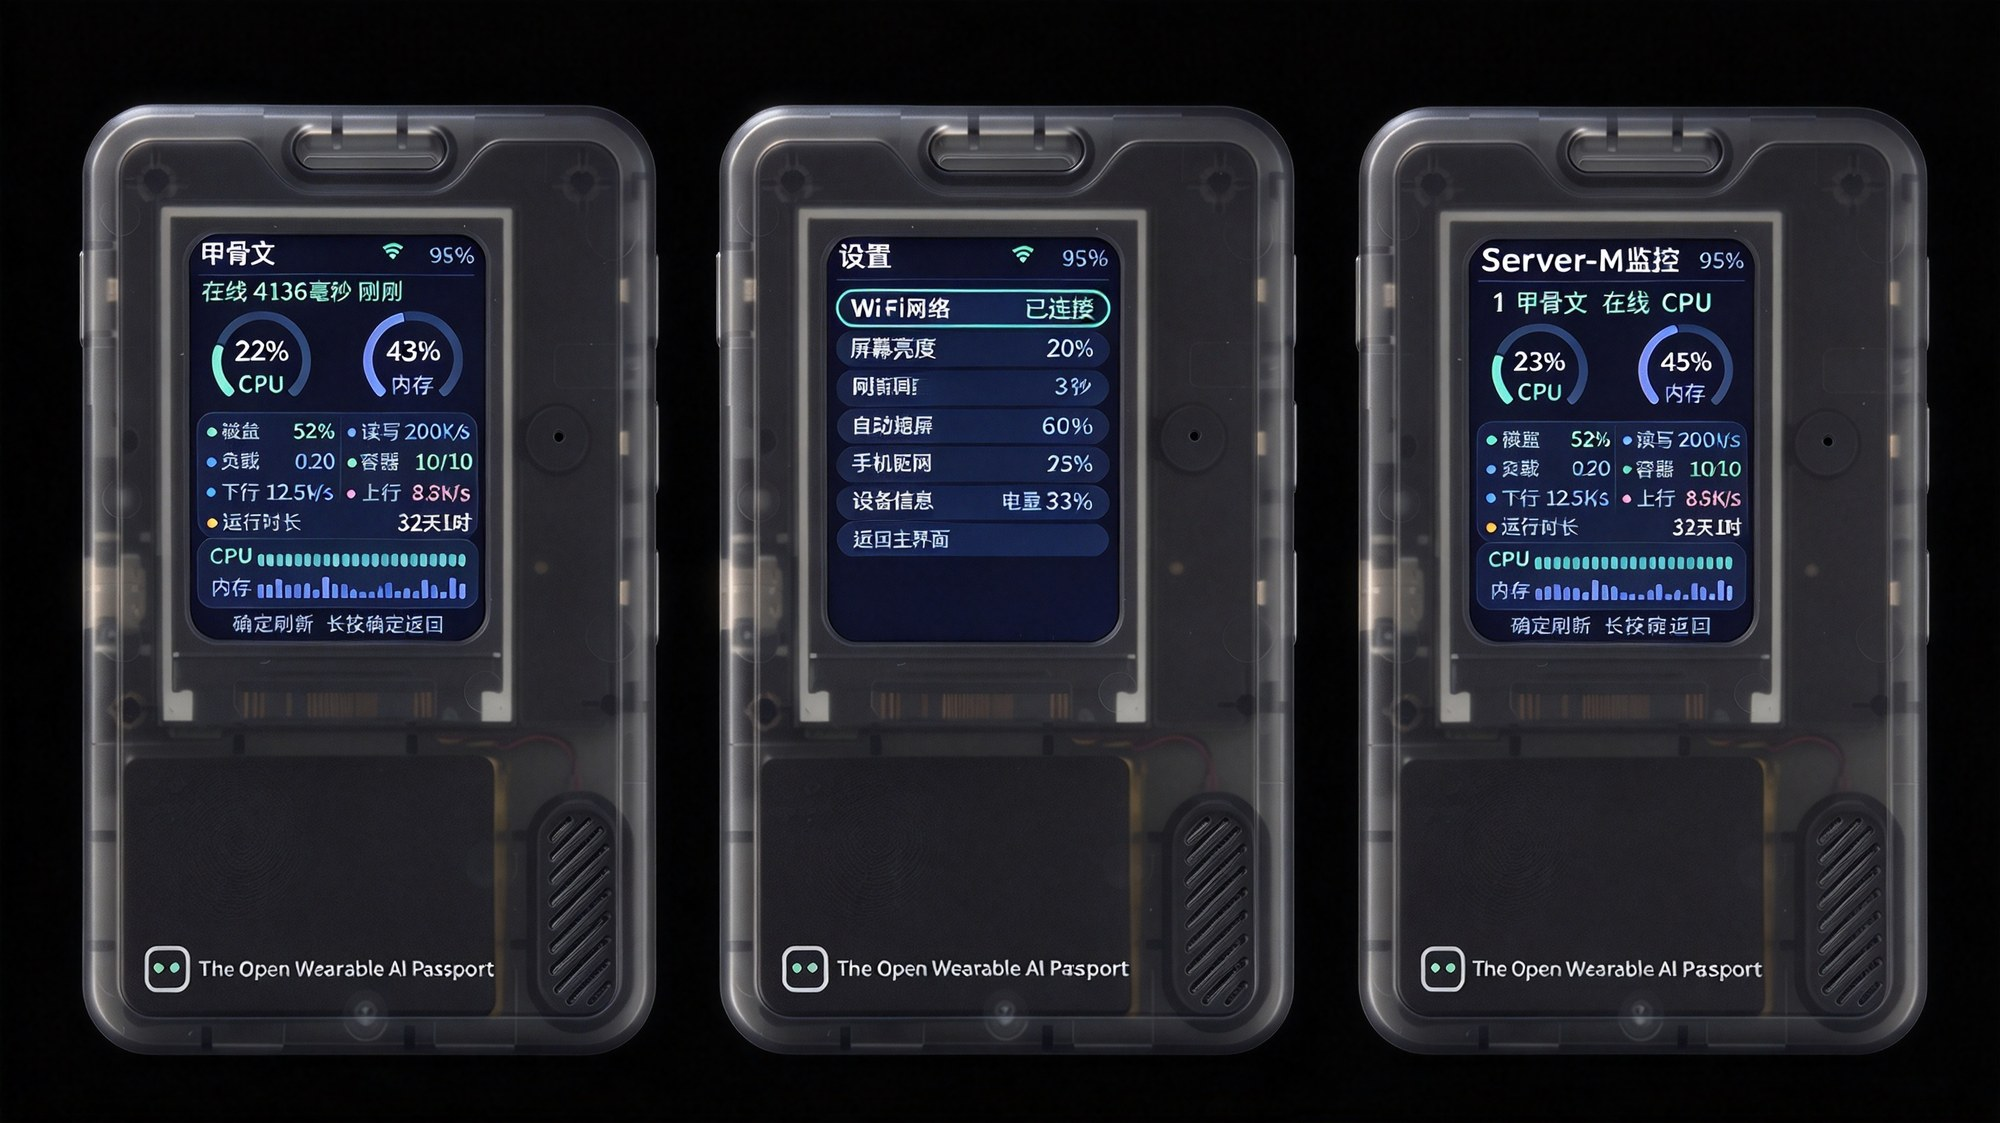
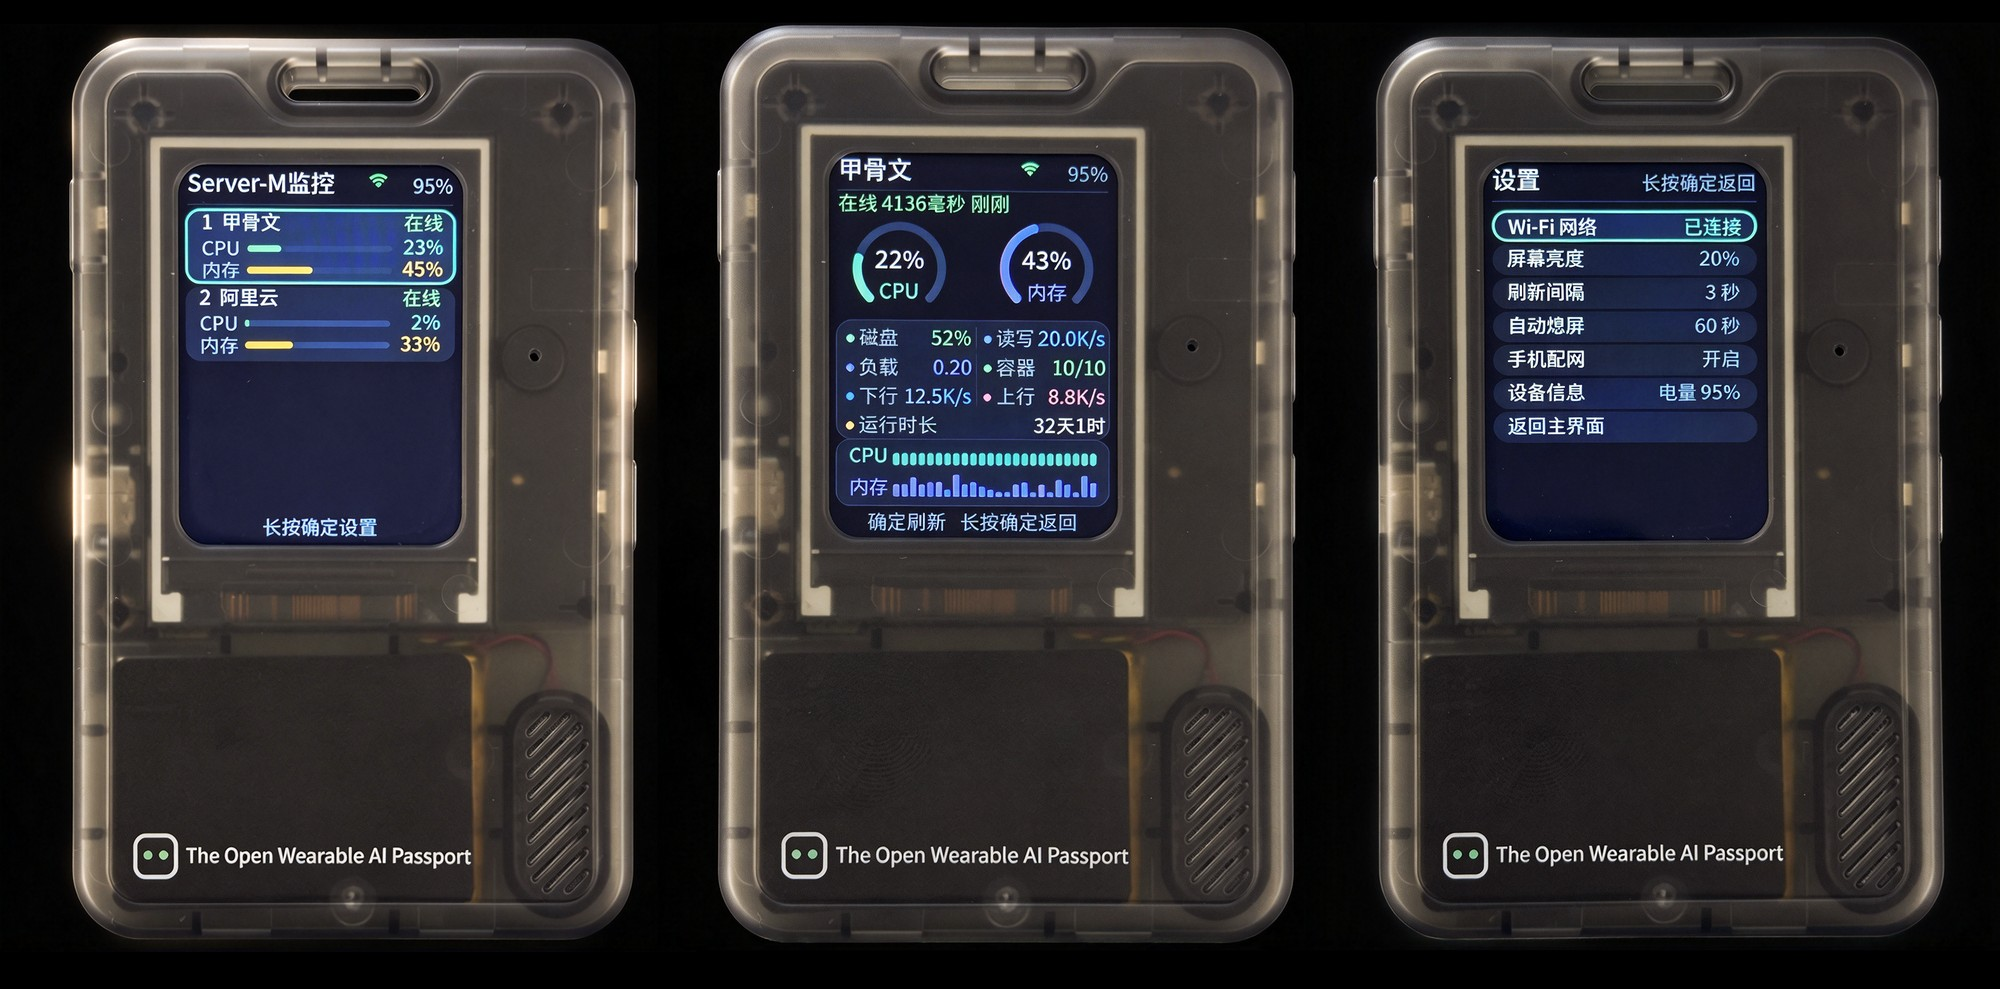
docs: refresh the screens showcase and add panel support to the title

diff --git a/README.en.md b/README.en.md
@@ -1,6 +1,6 @@
 **English** · [简体中文](README.md)
 
-<h1 align="center">Server-M Monitor</h1>
+<h1 align="center">Server-M Monitor (1Panel / Baota supported)</h1>
 
 <p align="center">
   <strong>Turn a FoloToy AI Passport into a desktop server status display</strong><br>
@@ -15,8 +15,8 @@
 Server-M is server-monitoring firmware for the FoloToy AI Passport hardware. It polls servers through a relay endpoint and shows CPU, memory, disk, disk I/O, load, network throughput, containers, and uptime on the 240 × 320 display, with 24-hour trends, screen-off power saving, and switching between saved networks.
 
 <p align="center">
-  <img src="assets/images/server-m-monitor-hero.jpg" width="30%" alt="Server-M detail screen showcase">
-  <img src="assets/images/server-m-monitor-screens.jpg" width="68%" alt="Server-M list, settings, and detail screens">
+  <img src="assets/images/server-m-monitor-hero.jpg" width="27.5%" alt="Server-M detail screen showcase">
+  <img src="assets/images/server-m-monitor-screens.jpg" width="70.5%" alt="Server-M list, settings, and detail screens">
 </p>
 <p align="center"><sub>Interface showcase</sub></p>
 

diff --git a/README.md b/README.md
@@ -1,6 +1,6 @@
 **简体中文** · [English](README.en.md)
 
-<h1 align="center">Server-M 监控</h1>
+<h1 align="center">Server-M 监控（支持1Panel/宝塔）</h1>
 
 <p align="center">
   <strong>把 FoloToy AI Passport 变成一台桌面服务器状态屏</strong><br>
@@ -15,8 +15,8 @@
 Server-M 是运行在 FoloToy AI Passport 硬件上的服务器监控固件。它通过中转地址轮询服务器状态，在 240 × 320 屏幕上显示 CPU、内存、磁盘、磁盘 I/O、负载、网络吞吐、容器和运行时长等指标，并支持 24 小时趋势、熄屏省电与多网络切换。
 
 <p align="center">
-  <img src="assets/images/server-m-monitor-hero.jpg" width="30%" alt="Server-M 详情页运行展示">
-  <img src="assets/images/server-m-monitor-screens.jpg" width="68%" alt="Server-M 列表、设置和详情界面">
+  <img src="assets/images/server-m-monitor-hero.jpg" width="27.5%" alt="Server-M 详情页运行展示">
+  <img src="assets/images/server-m-monitor-screens.jpg" width="70.5%" alt="Server-M 列表、设置和详情界面">
 </p>
 <p align="center"><sub>运行界面展示</sub></p>
 
